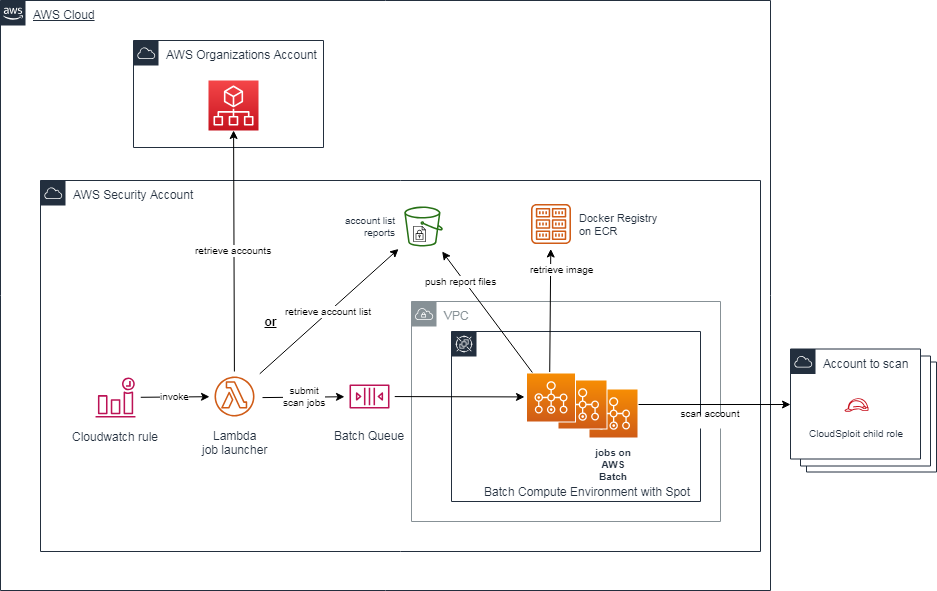
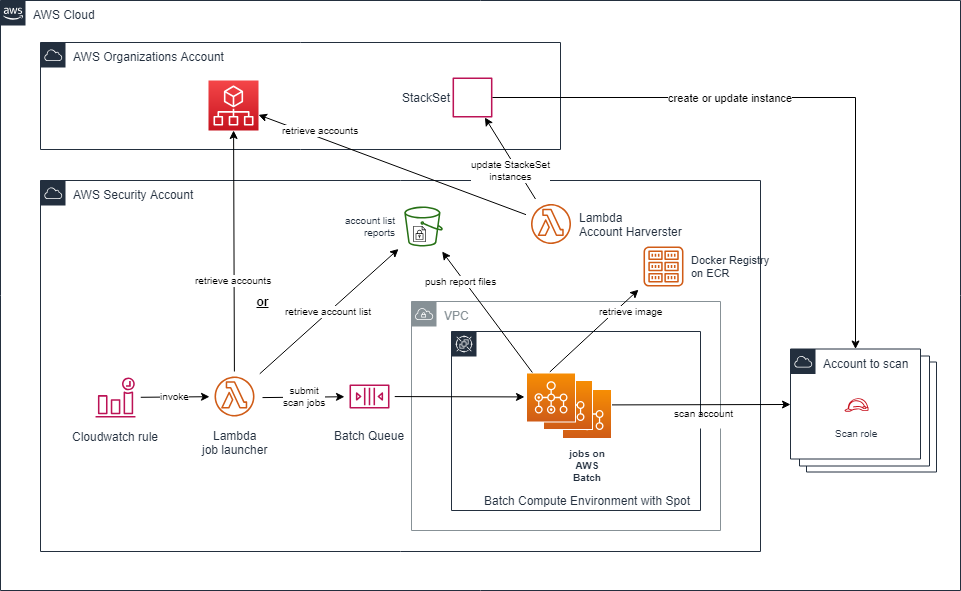
Add account Lambda Harverster

diff --git a/README.md b/README.md
@@ -7,7 +7,13 @@ CloudSploit Batch is an AWS account security scanner specialist based on [CloudS
 People need to audit their account to seek security issues or validate compliance. CloudSploit Batch is here to do the job for you at a defined frequency.
 It ensures cost containment and security hardening.
 
-## Technicals details
+## Design
+
+### Diagram
+
+![CloudSploit Batch Diagram](images/cloudsploitbatch-diagram.png)
+
+## Content
 
 CloudSploit batch simply runs [CloudSploit scanner engines](https://github.com/cloudsploit/scans) into AWS Batch jobs.
 It simply industrializes the scan process thanks to the following AWS resources :
@@ -18,15 +24,21 @@ It simply industrializes the scan process thanks to the following AWS resources 
 - S3 to store generated reports
 - CloudWatch Logs to log the global activity
 
-![CloudSploit Batch Diagram](images/cloudsploitbatch-diagram.png)
+### Explanation
 
-## Prerequisites
+The system works around two independent Lambdas :
+- cloudsploit-job-launcher : retrieves all the accounts from AWS Organizations and submit as many AWS Batch jobs as there are accounts.  This Lambda is invoked by a CloudWatch rule but could be invoked manually.
+- cloudsploit-account-harverster : it is in charge of updating the StackSet that spread on all accounts the role used by Batch jobs to scan the accounts. This Lambda is invoked by a CloudWatch rule but could be invoked manually.
+
+## Installation
+
+### Prerequisites
 
 CloudSploit needs :
 - a VPC
 - a private subnet with Internet connection (through a NAT Gateway)
 
-## Installation
+## Steps
 
 1. deploy the [cf-cloudsploit-common.yml](cf-cloudsploit-common.yml) CloudFormation stack in the central account
 2. Git clone cloudsploit scans repository in the cloudsploit-batch directory
@@ -38,4 +50,5 @@ CloudSploit needs :
 Do not forget two different strong ExternalIds like UUID (one for Organizations role, one for scan role)
 
 ## How to use it
-Scans are perform on a configured daily basis and reports are stored in the S3 bucket.
+
+Scans are performed on a configured daily basis and reports are stored in the S3 bucket.
